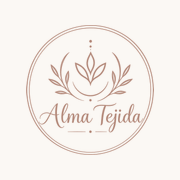
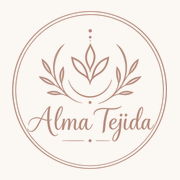
Panel en el teléfono, ícono y precios de las combinaciones
Seis cosas que se veían desde el teléfono de la administradora.

El cartel de Netlify no era código: era `built_with_badge_enabled` en la
configuración del sitio. Ya está apagado, no hay nada que versionar.

El botón de WhatsApp se salía de la caja. Los botones llevan
`whitespace-nowrap` -no se parte "Consultar por WhatsApp" a la mitad- así
que dos botones de ancho mínimo 150 no entran en una pantalla de 320.
Ahora se apilan en el teléfono.

El panel no tenía puerta en el teléfono. Abajo entran cuatro pestañas y
las otras cinco secciones estaban al final del scroll: había que leer
toda la pantalla para llegar a Configuración, o apaisar el teléfono para
que apareciera la barra lateral. Ahora hay un botón arriba que abre el
cajón con las nueve, "ver la tienda" y "cerrar sesión".

El ícono del acceso directo se veía chiquito: el logo ocupaba el 72 % del
lienzo pensando en el recorte en círculo de Android, pero en el
escritorio el ícono se muestra entero. Al 88 % llena y sigue dejando
margen.

Las categorías vacías se mostraban igual. Seis de las ocho no tienen
piezas publicadas: la portada ofrecía seis puertas a una pantalla sin
nada. Si la consulta falla se muestran todas, que es mejor que una
portada sin categorías.

Y el que más plata mueve: el respaldo a medida tiene 42 combinaciones y
las 42 llevan su propio precio, porque uno de 1,20 no vale lo mismo que
uno de 2,00. Cambiar el precio de la pieza no les hacía nada -el precio
[…]

Changed region(s): [[0.0556, 0.0556, 0.9444, 0.9444], [0.6111, 0.2778, 0.6389, 0.3056]]

diff --git a/src/components/admin/admin-nav.tsx b/src/components/admin/admin-nav.tsx
@@ -9,6 +9,7 @@ import {
   FolderTree,
   LayoutDashboard,
   LogOut,
+  Menu,
   MessageCircleQuestion,
   Package,
   Settings,
@@ -16,6 +17,7 @@ import {
   Star,
   Store,
   Tag,
+  X,
 } from 'lucide-react'
 import { BrandMark } from '@/components/tienda/brand-mark'
 import { signOut } from '@/lib/actions/auth'
@@ -71,6 +73,23 @@ export function AdminNav({
   userName: string
 }) {
   const pathname = usePathname()
+  const [cajonAbierto, setCajonAbierto] = React.useState(false)
+
+  // Se cierra al cambiar de pantalla: si no, se toca "Categorías", la página
+  // de atrás cambia y el cajón queda tapándola.
+  React.useEffect(() => {
+    setCajonAbierto(false)
+  }, [pathname])
+
+  // Con el cajón abierto la página de atrás no se mueve.
+  React.useEffect(() => {
+    if (!cajonAbierto) return
+    const previo = document.body.style.overflow
+    document.body.style.overflow = 'hidden'
+    return () => {
+      document.body.style.overflow = previo
+    }
+  }, [cajonAbierto])
 
   const isActive = (href: string, exact?: boolean) =>
     exact ? pathname === href : pathname.startsWith(href)
@@ -79,9 +98,25 @@ export function AdminNav({
     <>
       {/* Barra superior en móvil */}
       <header className="sticky top-0 z-30 flex h-14 items-center justify-between border-b border-border-soft bg-background px-4 md:hidden">
-        <Link href="/admin" aria-label="Administración">
-          <BrandMark logoUrl={logoUrl} storeName={storeName} size="sm" />
-        </Link>
+        <div className="flex items-center gap-1">
+          {/* La puerta a las nueve secciones.
+              Abajo sólo entran cuatro pestañas, y el resto estaba al final del
+              scroll de cada pantalla: había que leer toda la pantalla para
+              llegar a Configuración, o apaisar el teléfono para que apareciera
+              la barra lateral. Acá está arriba, siempre en el mismo lugar. */}
+          <button
+            type="button"
+            onClick={() => setCajonAbierto(true)}
+            className="-ml-2 grid size-11 place-items-center rounded-lg text-ink-muted"
+            aria-label="Abrir el panel"
+            aria-expanded={cajonAbierto}
+          >
+            <Menu className="size-5" />
+          </button>
+          <Link href="/admin" aria-label="Administración">
+            <BrandMark logoUrl={logoUrl} storeName={storeName} size="sm" />
+          </Link>
+        </div>
         <div className="flex items-center gap-1">
           <NotificationsLink count={unreadCount} />
           <Link
@@ -147,6 +182,79 @@ export function AdminNav({
           </form>
         </div>
       </aside>
+
+      {/* El cajón */}
+      {cajonAbierto && (
+        <div className="fixed inset-0 z-50 md:hidden">
+          <button
+            type="button"
+            onClick={() => setCajonAbierto(false)}
+            className="absolute inset-0 bg-linen-900/40"
+            aria-label="Cerrar el panel"
+          />
+
+          <div className="absolute inset-y-0 left-0 flex w-[17.5rem] max-w-[85vw] flex-col bg-background shadow-xl">
+            <div className="flex h-14 items-center justify-between border-b border-border-soft px-4">
+              <BrandMark logoUrl={logoUrl} storeName={storeName} size="sm" />
+              <button
+                type="button"
+                onClick={() => setCajonAbierto(false)}
+                className="-mr-2 grid size-11 place-items-center rounded-lg text-ink-muted"
+                aria-label="Cerrar el panel"
+              >
+                <X className="size-5" />
+              </button>
+            </div>
+
+            <nav className="flex-1 space-y-0.5 overflow-y-auto p-3" aria-label="Administración">
+              {SECTIONS.map((section) => {
+                const active = isActive(section.href, section.exact)
+                const Icon = section.icon
+
+                return (
+                  <Link
+                    key={section.href}
+                    href={section.href}
+                    aria-current={active ? 'page' : undefined}
+                    className={cn(
+                      'flex min-h-[46px] items-center gap-3 rounded-lg px-3 text-sm',
+                      active
+                        ? 'bg-primary-soft font-medium text-clay-700'
+                        : 'text-ink-muted',
+                    )}
+                  >
+                    <Icon className="size-[18px] shrink-0" strokeWidth={active ? 2.1 : 1.8} />
+                    {section.label}
+                  </Link>
+                )
+              })}
+            </nav>
+
+            <div
+              className="space-y-1 border-t border-border-soft p-3"
+              style={{ paddingBottom: 'calc(0.75rem + env(safe-area-inset-bottom))' }}
+            >
+              <p className="truncate px-3 pb-1 text-xs text-ink-subtle">{userName}</p>
+              <Link
+                href="/"
+                className="flex min-h-[46px] items-center gap-3 rounded-lg px-3 text-sm text-ink-muted"
+              >
+                <Store className="size-[18px]" strokeWidth={1.8} />
+                Ver la tienda
+              </Link>
+              <form action={signOut}>
+                <button
+                  type="submit"
+                  className="flex min-h-[46px] w-full items-center gap-3 rounded-lg px-3 text-sm text-ink-muted"
+                >
+                  <LogOut className="size-[18px]" strokeWidth={1.8} />
+                  Cerrar sesión
+                </button>
+              </form>
+            </div>
+          </div>
+        </div>
+      )}
 
       {/* Pestanas inferiores en móvil */}
       <nav

diff --git a/src/components/admin/variant-builder.tsx b/src/components/admin/variant-builder.tsx
@@ -80,6 +80,9 @@ export function VariantBuilder({
   const router = useRouter()
   const [attributes, setAttributes] = React.useState<AttributeDraft[]>(initialAttributes)
   const [variants, setVariants] = React.useState<VariantDraft[]>(initialVariants)
+  const [ajuste, setAjuste] = React.useState('')
+
+  const conPrecioPropio = variants.filter((v) => v.price_override.trim()).length
   const [saving, setSaving] = React.useState(false)
   const [error, setError] = React.useState<string | null>(null)
   const [saved, setSaved] = React.useState(false)
@@ -200,6 +203,43 @@ export function VariantBuilder({
 
   function removeVariant(key: string) {
     setVariants((current) => current.filter((variant) => variant.key !== key))
+  }
+
+  /**
+   * Mover de una vez el precio de todas las combinaciones.
+   *
+   * EL PROBLEMA QUE RESUELVE
+   * El respaldo a medida tiene 42 combinaciones y cada una lleva su propio
+   * precio, porque un respaldo de 1,20 no vale lo mismo que uno de 2,00. Eso
+   * significa que cambiar el precio de la pieza no les hace nada: el precio
+   * propio de la combinación le gana siempre, y desde el otro lado se ve como
+   * "cambié el precio y no me lo actualiza".
+   *
+   * Corregir 42 campos a mano no es una opción. Acá se mueven las 42 juntas
+   * por porcentaje, que es como suben los precios de verdad.
+   *
+   * EL REDONDEO ES A LA CENTENA
+   * Un 12 % sobre 215.000 da 240.800. Nadie publica 240.800: se publica
+   * 240.800 redondeado, y la centena es lo que deja los precios con la cara
+   * de un precio sin inventar plata ni regalarla.
+   */
+  function moverPreciosPropios(porcentaje: number) {
+    setVariants((current) =>
+      current.map((variant) => {
+        const actual = parsearPrecio(variant.price_override)
+        // Las que no tienen precio propio siguen a la pieza: no se tocan, o
+        // les estaríamos clavando un precio que antes no tenían.
+        if (actual == null || actual <= 0) return variant
+
+        const nuevo = Math.round((actual * (1 + porcentaje / 100)) / 100) * 100
+        return { ...variant, price_override: formatearParaEditar(nuevo) }
+      }),
+    )
+  }
+
+  /** Dejarlas a todas siguiendo el precio de la pieza. */
+  function borrarPreciosPropios() {
+    setVariants((current) => current.map((v) => ({ ...v, price_override: '' })))
   }
 
   function updateVariant(key: string, patch: Partial<VariantDraft>) {
@@ -391,6 +431,61 @@ export function VariantBuilder({
               Generar combinaciones
             </Button>
           </div>
+
+          {conPrecioPropio > 0 && (
+            <div className="space-y-2.5 rounded-lg border border-border-soft bg-surface-muted/60 p-3.5">
+              <p className="text-sm text-ink-muted">
+                <span className="font-medium text-ink">
+                  {conPrecioPropio} de {variants.length} combinaciones tienen su propio
+                  precio.
+                </span>{' '}
+                A esas, cambiar el precio de la pieza no les hace nada: manda el precio
+                propio. Movelas todas juntas desde acá.
+              </p>
+
+              <div className="flex flex-wrap items-center gap-2">
+                <Input
+                  value={ajuste}
+                  onChange={(e) => setAjuste(e.target.value)}
+                  type="text"
+                  inputMode="decimal"
+                  placeholder="%"
+                  aria-label="Porcentaje para mover los precios propios"
+                  className="tabular h-10 w-20 text-sm"
+                />
+                <Button
+                  size="sm"
+                  variant="soft"
+                  disabled={!parsearPrecio(ajuste)}
+                  onClick={() => {
+                    const n = parsearPrecio(ajuste)
+                    if (n) moverPreciosPropios(n)
+                  }}
+                >
+                  Subir
+                </Button>
+                <Button
+                  size="sm"
+                  variant="soft"
+                  disabled={!parsearPrecio(ajuste)}
+                  onClick={() => {
+                    const n = parsearPrecio(ajuste)
+                    if (n) moverPreciosPropios(-n)
+                  }}
+                >
+                  Bajar
+                </Button>
+                <Button size="sm" variant="ghost" onClick={borrarPreciosPropios}>
+                  Que sigan a la pieza
+                </Button>
+              </div>
+
+              <p className="text-xs text-ink-subtle">
+                Se redondea a la centena. Mirá los precios abajo y recién después
+                guardá: hasta que no toques Guardar no se cambia nada.
+              </p>
+            </div>
+          )}
 
           {variants.length === 0 ? (
             <p className="rounded-lg bg-surface-muted px-3.5 py-3 text-sm text-ink-muted">

diff --git a/src/components/tienda/buy-box.tsx b/src/components/tienda/buy-box.tsx
@@ -259,7 +259,7 @@ export function BuyBox({
             </div>
           )}
 
-          <div className="min-w-[200px] flex-1">
+          <div className="min-w-[160px] flex-1">
             <Button size="lg" block onClick={handleAdd} disabled={!canBuy}>
           <AnimatePresence mode="wait" initial={false}>
             {justAdded ? (
@@ -292,12 +292,16 @@ export function BuyBox({
           </div>
         </div>
 
-        <div className="flex flex-wrap gap-2.5">
+        {/* Apilados en el teléfono. Los botones llevan `whitespace-nowrap`
+            -no se parte "Consultar por WhatsApp" a la mitad- así que dos de
+            ancho mínimo 150 no entran en una pantalla de 320 y el texto se
+            salía de la caja. A lo ancho completo entra cómodo. */}
+        <div className="flex flex-col gap-2.5 sm:flex-row sm:flex-wrap">
           {whatsapp && (
             <Button
               asChild
               variant="whatsapp"
-              className="min-w-[150px] flex-1"
+              className="w-full sm:w-auto sm:min-w-[150px] sm:flex-1"
               onClick={() => void trackEvent('whatsapp_click', { productId: product.id })}
             >
               <a href={whatsapp} target="_blank" rel="noopener noreferrer">
@@ -309,7 +313,7 @@ export function BuyBox({
 
           {/* Lleva al bloque de preguntas, que ahora se puede usar sin cuenta.
               Es la alternativa para quien no quiere dar su teléfono. */}
-          <Button asChild variant="secondary" className="min-w-[150px] flex-1">
+          <Button asChild variant="secondary" className="w-full sm:w-auto sm:min-w-[150px] sm:flex-1">
             <a href="#preguntas">
               <MessageCircleQuestion />
               Preguntar acá

diff --git a/src/lib/queries/store.ts b/src/lib/queries/store.ts
@@ -83,10 +83,41 @@ export const getCategories = cache(async (): Promise<Category[]> => {
   }, [])
 })
 
-/** Solo categorías de primer nivel, para la navegación. */
+/**
+ * Las categorías de primer nivel QUE TIENEN PIEZAS, para la navegación.
+ *
+ * POR QUÉ SE FILTRAN LAS VACÍAS
+ * Una categoría sin piezas es una puerta que da a una pared: se toca "Tapices"
+ * y aparece "todavía no hay nada acá". De ocho categorías, seis estaban
+ * vacías, así que la navegación prometía seis veces más surtido del que hay y
+ * decepcionaba en el clic.
+ *
+ * No se borran ni se ocultan a mano: en cuanto una categoría tenga una pieza
+ * publicada, vuelve sola. Eso es lo que permite cargarlas por adelantado sin
+ * que molesten mientras tanto.
+ */
 export const getTopCategories = cache(async (): Promise<Category[]> => {
-  const all = await getCategories()
-  return all.filter((c) => c.parent_id === null)
+  const todas = await getCategories()
+  const raices = todas.filter((c) => c.parent_id === null)
+
+  const conPiezas = await safeQuery(async () => {
+    const supabase = createPublicClient()
+    const { data } = await supabase
+      .from('v_catalog_products')
+      .select('category_id')
+      .eq('status', 'published')
+      .not('category_id', 'is', null)
+      .limit(500)
+
+    return new Set((data ?? []).map((f) => f.category_id).filter(Boolean) as string[])
+  }, new Set<string>())
+
+  // Si la consulta falla, `conPiezas` viene vacío. En ese caso se muestran
+  // TODAS: una navegación de más es molesta; una tienda sin categorías por
+  // una consulta caída parece rota.
+  if (conPiezas.size === 0) return raices
+
+  return raices.filter((c) => conPiezas.has(c.id))
 })
 
 /**
